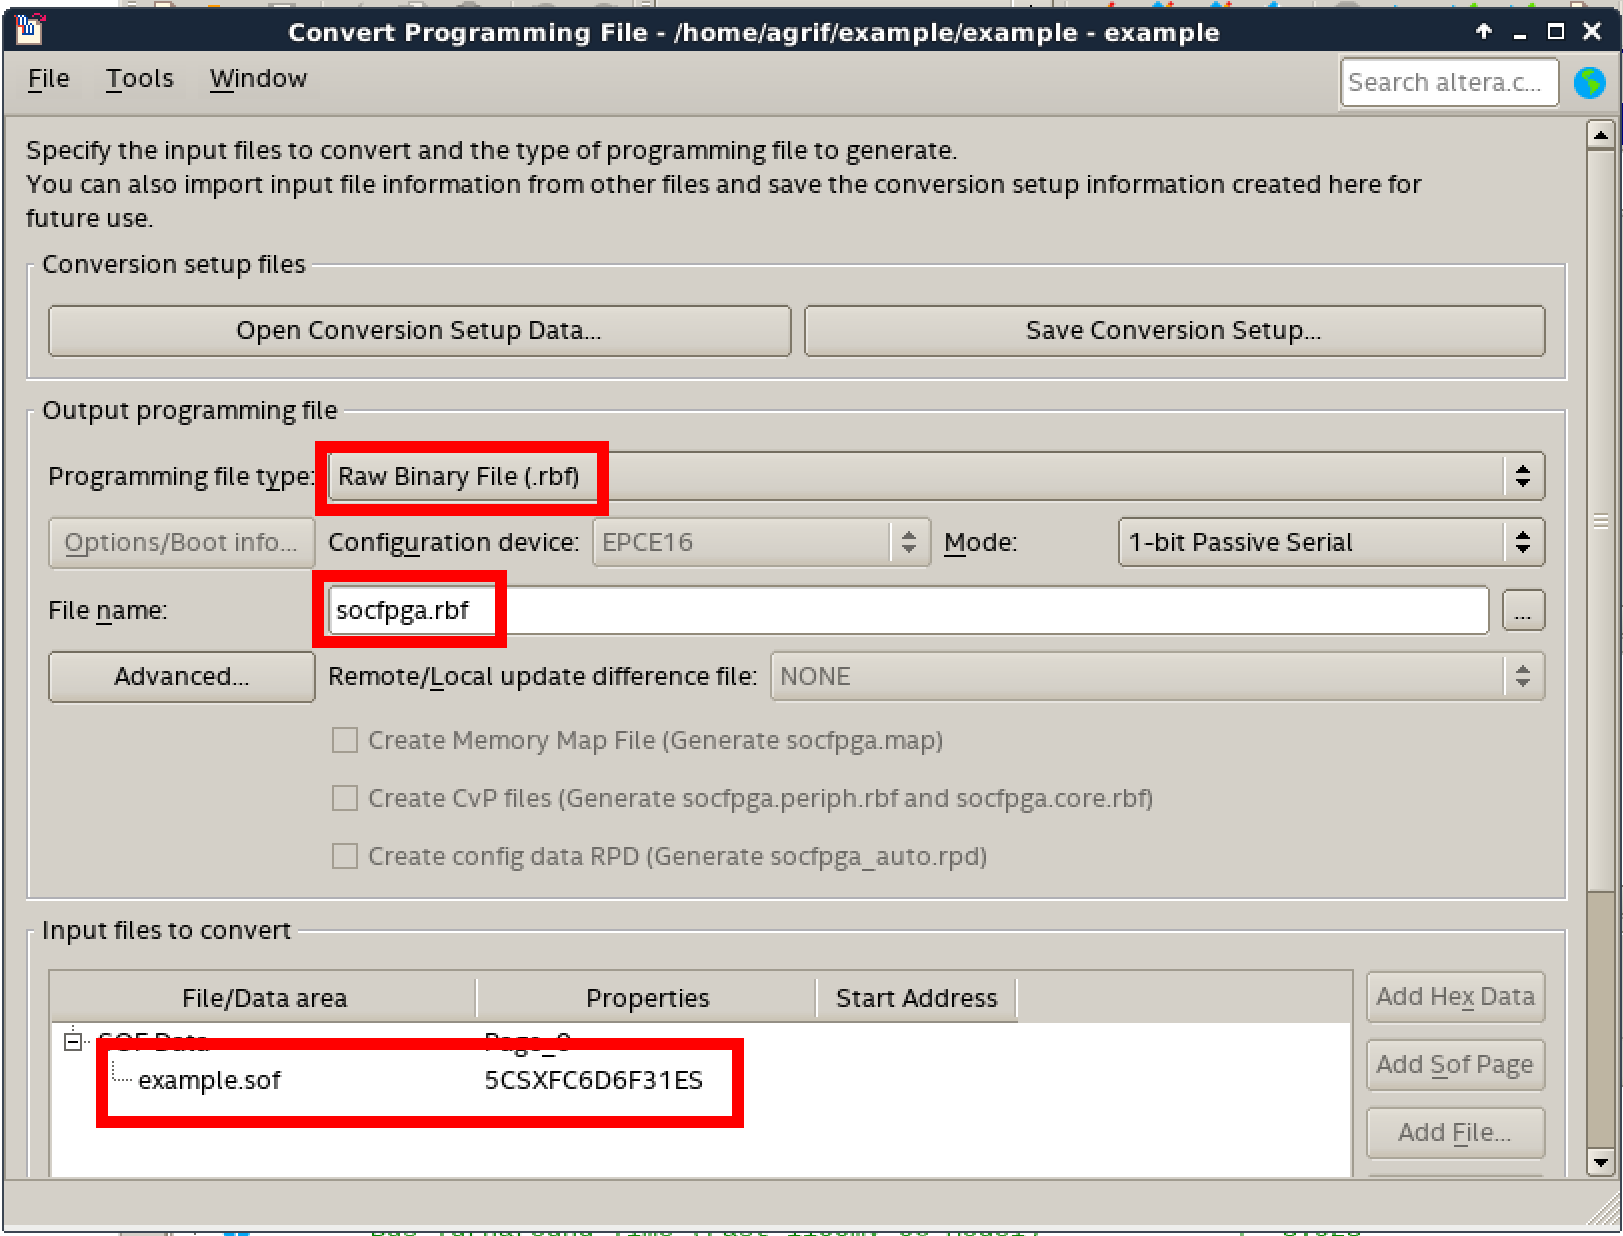
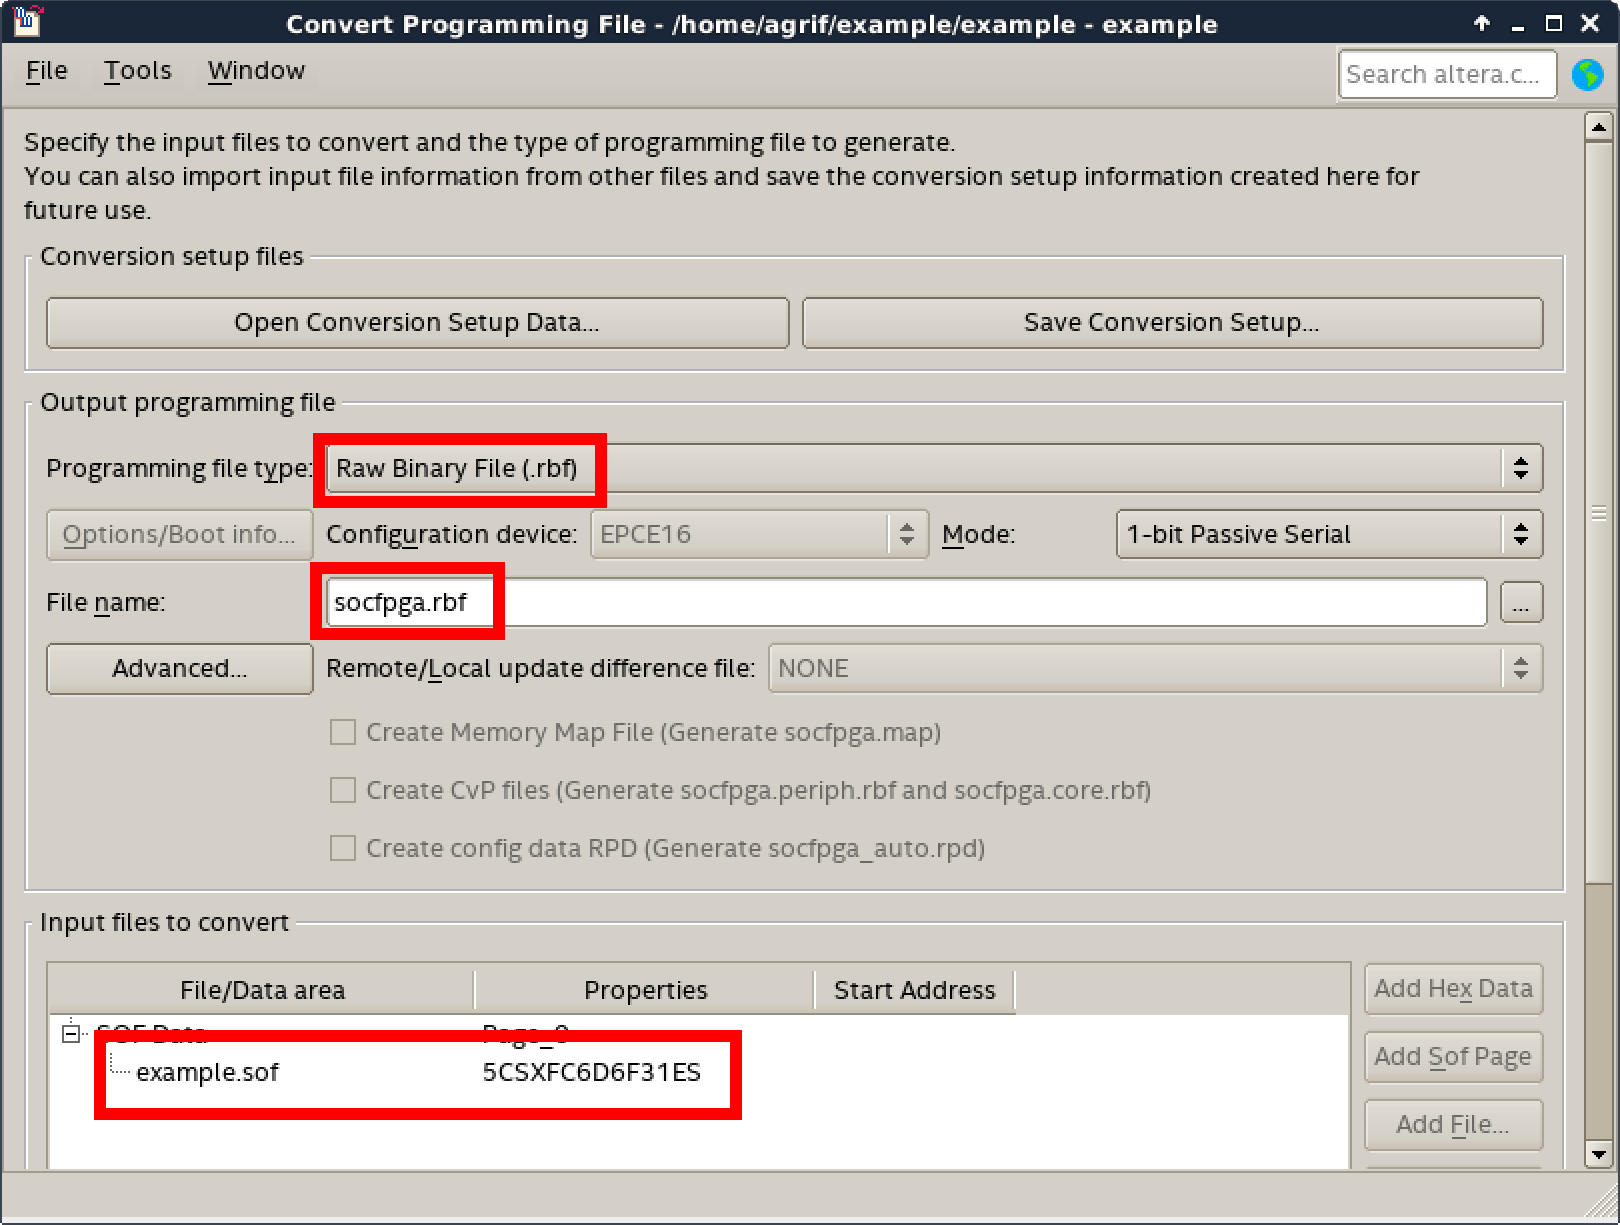
trim pixels off rbf.png, changed one \menu back to \textit

diff --git a/sockit-guide.tex b/sockit-guide.tex
@@ -280,7 +280,7 @@ program the FPGA at boot time. To do this, we need to create an RBF
 file by opening menu \menu{File > Convert Programming
   Files...}. Select \menu{Raw Binary File (.rbf)} as the output
 programming file type, set \directory{socfpga.rbf} as the file name,
-and under \menu{Input files to convert} add the
+and under ``\textit{Input files to convert}'' add the
 \directory{example.sof} file that Quartus just finished compiling (see
 \Cref{fig:rbf}). Finally, press the \menu{Generate} button.
 
